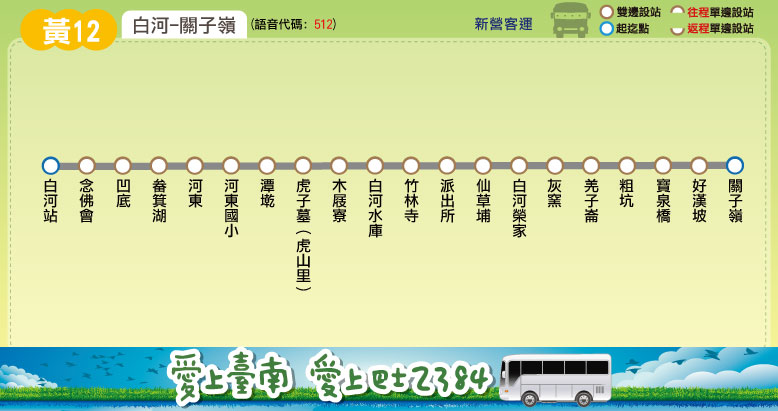
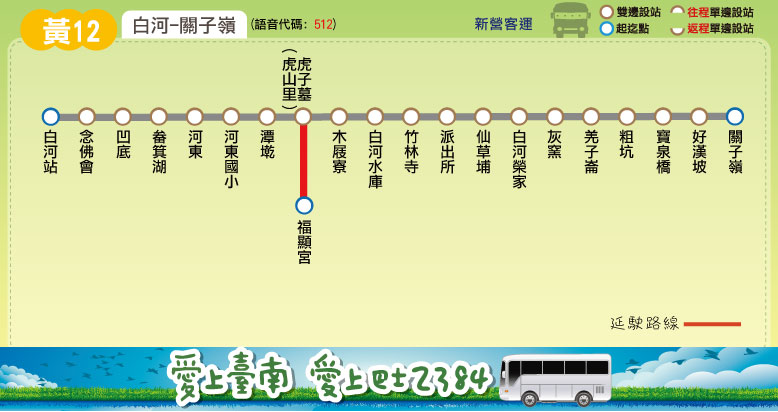
新增黃12路線時刻，拿掉台灣好行站牌後面的[台灣好行]字樣

diff --git a/yellow/yellow_12.html b/yellow/yellow_12.html
@@ -1,0 +1,175 @@
+<!DOCTYPE html PUBLIC "-//W3C//DTD XHTML 1.0 Strict//EN" "http://www.w3.org/TR/xhtml1/DTD/xhtml1-strict.dtd">
+<html xmlns="http://www.w3.org/1999/xhtml">
+<head>
+<meta http-equiv="Content-Type" content="text/html; charset=utf-8" />
+<title>大台南公車 ─ 黃12 路線資訊</title>
+<meta name="keywords" content="" />
+<meta name="description" content="" />
+<style type="text/css">
+@import url("../css/table_style.css");
+@import url("../css/default.css");
+select.get_fare{background-color: #FFD306;}
+select.get_fare option.option1
+{background-color: #FFD306;}
+select.get_fare option.option2
+{background-color: #FDFF73;}
+select.get_fare option.option3
+{background-color: yellow;}
+select.get_fare option.option4
+{background-color: #FDFF55;}
+select.get_fare option.option5
+{background-color: #D9B300;}
+select.get_fare option.option6
+{background-color: #FCFF19;}
+</style>
+<script language="javascript" src="../route/msg.js"></script>
+<script language="javascript" src="../route/fare_and_time/yellow_12.js"></script>
+<script language="javascript" src="../route/fare_and_time/show_fare_tool.js"></script>
+</head>
+<body>
+<div id="header-wrapper">
+	<div id="header" class="container">
+		<div id="logo">
+			<h1><a href="../index.html">Tainan Bus for FUN</a></h1>
+			<p align="center">
+			<a href="index.html"><img src="../img/yellow_logo.png"></a>
+			</p>
+		</div>
+		<div id="menu">
+			<ul>
+				<li class="current_page_item"><a href="#route" accesskey="1" title="">路線圖</a></li>
+				<li><a href="#info" accesskey="2" title="">路線資訊</a></li>
+				<li><a href="#fare" accesskey="3" title="">票價表</a></li>
+				<li><a href="#time" accesskey="4" title="">時刻表</a></li>
+				<li><a href="#transfer" accesskey="5" title="">轉乘資訊</a></li>
+			</ul>
+		</div>
+	</div>
+</div>
+<div id="wrapper1">
+	<a name="route"></a>
+	<div id="banner">&nbsp;</div>
+	<div id="route">
+		<div class="title">
+			<h2>大台南公車 ─ 黃12 路線圖</h2>
+			<span class="byline">Tainan Bus Yellow 12, Route Map</span>
+		</div>
+		<img src="../route/yellow/y12.jpg">
+		<p></p>
+		<!--<iframe src="https://mapsengine.google.com/map/embed?mid=zT0XIOZRtlhg.kbnckjpTnNGs" width="800" height="500"></iframe>-->
+	</div>
+</div>
+<div id="wrapper2">
+	<a name="info"></a>
+	<div id="routeinfo" class="container">
+		<div class="title">
+			<h2>大台南公車 ─ 黃12　路線資訊</h2>
+			<span class="byline">Tainan Bus Yellow 12, Route Information</span> </div>
+		<div class="content">
+			<table border="0">
+				<tr>
+					<td>起訖點</td>
+					<td>白河 － 關子嶺</td>
+				</tr>
+				<tr>
+					<td>營運公司</td>
+					<td>新營客運</td>
+				</tr>
+				<tr>
+					<td>首／末班車發車時刻</td>
+					<td>往 關子嶺：06:55／16:05<br />往 白　河：07:25／16:35</td>
+				</tr>
+				<tr>
+					<td>班距</td>
+					<td>固定班次</td>
+				</tr>
+				<tr>
+					<td>收費方式</td>
+					<td>里程計費</td>
+				</tr>
+			</table>
+			<p>　</p>
+			<a href="http://2384.tainan.gov.tw:8080/AGPSRemoteQuery3/ajaxBus.jsp?pathId=1512&locale=zh_TW" class="button">公車動態資訊</a> </div>
+	</div>
+</div>
+<div id="wrapper3">
+	<a name="fare"></a>
+	<div id="faretable" class="container">
+		<div class="title">
+			<h2>票價表</h2>
+			<span class="byline">Ticket Fare</span> </div>
+		<div class="content">
+			<script language="javascript">
+				create_select_menu(yellow_12_interval_stop, 6, 'yellow_12');
+			</script>
+			<br/>
+			<table>
+				<tr>
+					<th></th><th>全票</th><th>半票</th>
+				</tr>
+				<tr>
+					<td><b>投現</b></td>
+					<td id="cash_adult">-</td>
+					<td id="cash_half">-</td>
+				</tr>
+				<tr>
+					<td><b>電子票證</b></td>
+					<td id="RFID_adult">-</td>
+					<td id="RFID_half">-</td>
+				</tr>
+			</table>
+			<p>　</p>
+			<script language="javascript">
+				print_fare_table(yellow_12_interval_name, yellow_12_fare, '#FDFF73');
+				document.write('<p>　</p>');
+				document.write(MeteredMSG + PromotionMSG);
+			</script>
+			<p>　</p>
+		</div>
+	</div>
+</div>
+<div id="timetable">
+	<a name="time"></a>
+	<div class="title">
+		<h2>時刻表</h2>
+		<span class="byline">Bus schedule</span> </div>
+	<div class="content">
+		<script language="javascript">
+			document.write('<h2><font color="orange">白河-&gt;關子嶺</font></h2>');
+			create_time_schedule(yellow_12_main_stop_name, yellow_12_main_stop_time_consume, yellow_12_important_stop, yellow_12_time_go, false);
+			document.write('<p>　</p>');
+			document.write('<h2><font color="orange">關子嶺-&gt;白河</font></h2>');
+			create_time_schedule(yellow_12_main_stop_name, yellow_12_main_stop_time_consume, yellow_12_important_stop, yellow_12_time_return, true);
+			document.write(TimeScheduleMSG);
+		</script>
+		<h3><font color="#000055">「副」表示路線行先為12-1，行駛至<font color="red">福顯宮</font>止</font></h3>
+	</div>
+</div>
+<div id="wrapper4">
+	<a name="transfer"></a>
+	<div id="transfer" class="container">
+		<div class="title">
+			<h2>大台南公車－黃12 主要轉乘點資訊</h2>
+			<span class="byline">Tainan bus Yellow 12, Transfer information</span>
+		</div>
+		<div class="content">
+			<table>
+				<tr>
+					<th>白河</th>
+					<td style="text-align: center"><img src="../route/transfer/yellow_transfer_logo.png"></td>
+					<td id="yellow">
+					<p>
+						<a href="../yellow/yellow.html" target="_blank">黃幹線</a>、<a href="../yellow/yellow_10.html" target="_blank">黃10</a>、<a href="../yellow/yellow_11.html" target="_blank">黃11</a>、<a href="../yellow/yellow_12.html" target="_blank">黃12</a>、
+					</p>
+					<a href="../yellow/yellow_13.html" target="_blank">黃13</a>、<a href="../yellow/yellow_14.html" target="_blank">黃14</a>、<a href="../yellow/yellow_15.html" target="_blank">黃15</a></a>
+					</td>
+				</tr>
+			</table>
+		</div>
+	</div>
+</div>
+<div id="copyright">
+	<script type="text/javascript">document.write(copyrightMSG);</script>
+</div>
+</body>
+</html>

diff --git a/yellow/yellow.html b/yellow/yellow.html
@@ -155,17 +155,59 @@ select.get_fare option.option6
 		<div class="content">
 			<table>
 				<tr>
-					<th rowspan="7">新營</th>
+					<th>白河</th>
+					<td style="text-align: center"><img src="../route/transfer/yellow_transfer_logo.png"></td>
+					<td id="yellow">
+					<p>
+						<a href="../yellow/yellow.html" target="_blank">黃幹線</a>、<a href="../yellow/yellow_10.html" target="_blank">黃10</a>、<a href="../yellow/yellow_11.html" target="_blank">黃11</a>、<a href="../yellow/yellow_12.html" target="_blank">黃12</a>、
+					</p>
+					<a href="../yellow/yellow_13.html" target="_blank">黃13</a>、<a href="../yellow/yellow_14.html" target="_blank">黃14</a>、<a href="../yellow/yellow_15.html" target="_blank">黃15</a></a>
+					</td>
+				</tr>
+				<tr>
+					<th rowspan="3">新營</th>
 					<td style="text-align: center"><img src="../route/transfer/railway.png"></td>
 					<td>台鐵新營站</td>
 				</tr>
 				<tr>
 					<td style="text-align: center"><img src="../route/transfer/brown_transfer_logo.png"></td>
-					<td>棕幹線</td>
+					<td id="brown"><a href="../brown/brown.html" target="_blank">棕幹線</a>、<a href="../brown/brown_1.html" target="_blank">棕1</a>、<a href="../brown/brown_2.html" target="_blank">棕2</a>、<a href="../brown/brown_3.html" target="_blank">棕3</a></td>
 				</tr>
 				<tr>
 					<td style="text-align: center"><img src="../route/transfer/yellow_transfer_logo.png"></td>
-					<td>黃幹線</td>
+					<td id="yellow">
+					<p>
+						<a href="../yellow/yellow.html" target="_blank">黃幹線</a>、<a href="../yellow/yellow_1.html" target="_blank">黃1</a>、<a href="../yellow/yellow_2.html" target="_blank">黃2</a>、<a href="../yellow/yellow_3.html" target="_blank">黃3</a>、<a href="../yellow/yellow_4.html" target="_blank">黃4</a>、
+					</p>
+					<a href="../yellow/yellow_5.html" target="_blank">黃5</a>、<a href="../yellow/yellow_6.html" target="_blank">黃6</a>、<a href="../yellow/yellow_7.html" target="_blank">黃7</a>
+					</td>
+				</tr>
+				<tr>
+					<th>柳營火車站</th>
+					<td style="text-align: center"><img src="../route/transfer/railway.png"></td>
+					<td>台鐵柳營站</td>
+				</tr>
+				<tr>
+					<th>柳營</th>
+					<td style="text-align: center"><img src="../route/transfer/yellow_transfer_logo.png"></td>
+					<td id="yellow"><a href="../yellow/yellow.html" target="_blank">黃幹線</a>、<a href="../yellow/yellow_1.html" target="_blank">黃1</a>、<a href="../yellow/yellow_2.html" target="_blank">黃2</a>、<a href="../yellow/yellow_3.html" target="_blank">黃3</a></td>
+				</tr>
+				<tr>
+					<th rowspan="2">下營公所</th>
+					<td style="text-align: center"><img src="../route/transfer/yellow_transfer_logo.png"></td>
+					<td id="yellow"><a href="../yellow/yellow_5.html" target="_blank">黃5</a>、<a href="../yellow/yellow_20.html" target="_blank">黃20</a></td>
+				<tr>
+					<td style="text-align: center"><img src="../route/transfer/orange_transfer_logo.png"></td>
+					<td id="orange"><a href="../orange/orange_11.html" target="_blank">橘11</a></td>
+				</tr>
+				<tr>
+					<th rowspan="2">果菜市場</th>
+					<td style="text-align: center"><img src="../route/transfer/orange_transfer_logo.png"></td>
+					<td id="orange"><a href="../orange/orange.html" target="_blank">橘幹線</a>、<a href="../orange/orange_10.html" target="_blank">橘10</a>、<a href="../orange/orange_11.html" target="_blank">橘11</a>、<a href="../orange/orange_12.html" target="_blank">橘12</a></td>
+				</tr>
+				<tr>
+					<td style="text-align: center"><img src="../route/transfer/yellow_transfer_logo.png"></td>
+					<td id="yellow"><a href="../yellow/yellow.html" target="_blank">黃幹線</a>、<a href="../yellow/yellow_20.html" target="_blank">黃20</a></td>
 				</tr>
 			</table>
 		</div>

diff --git a/tools/get_time_tool.js b/tools/get_time_tool.js
@@ -79,6 +79,7 @@ function get_bus_time(theRoute, start_stop, end_stop, time, isArrive){
 	var count = 0;
 	for(var i=0; i<interval_stop_name.length; ++i){
 		for(var j=0; j<interval_stop_name[i].length; ++j, ++count){
+			//alert('replace='+replace_stop_name(interval_stop_name[i][j])+' compare='+start_stop);
 			if(replace_stop_name(interval_stop_name[i][j])==start_stop){
 				start_idx = [i,j,count]; // idx format: [interval, order in interval, index of total stops]
 			}
@@ -130,17 +131,16 @@ function get_bus_time(theRoute, start_stop, end_stop, time, isArrive){
 	 : [get_time(target_time, stop_time_consume[end_idx[2]] - stop_time_consume[start_idx[2]]), target_time, Math.abs(stop_time_consume[end_idx[2]] - stop_time_consume[start_idx[2]]), fare];
 	// such as ["06:10","10:05", 30]
 }
-var replace_str_arr = [['台南','臺南'],['台灣','臺灣'],['南台','南臺'],['台電','臺電'],['關廟站','關廟'],['、','']];
+var replace_str_arr = [['[台灣好行]',''],['台南','臺南'],['台灣','臺灣'],['南台','南臺'],['台電','臺電'],['關廟站','關廟'],['興南客運臺南站','臺南站'],['、','']];
 function replace_stop_name(stop){ // handle the exception
 	for(var i=0; i<replace_str_arr.length; ++i){
 		if(stop.indexOf(replace_str_arr[i][0]) >=0 ){
-			//document.write('i='+i+' ,name='+replace_str_arr[i][0]);
+			//document.write('i='+i+' ,name='+replace_str_arr[i][0]+'<br />');
 			stop = stop.replace(replace_str_arr[i][0],replace_str_arr[i][1]);
-			break;
 		}
 	}
 	if(stop=='火車站(北站)' || stop=='火車站(南站)') stop = '臺南火車站';
-	if((stop.indexOf('新營客運')==0 || stop.indexOf('興南客運')==0)&&stop.charAt(stop.length-1)=='站') stop = stop.substring(4,stop.length-1); // replace XX站 to XX
+	else if((stop.indexOf('新營客運')==0 || stop.indexOf('興南客運')==0)&&stop.charAt(stop.length-1)=='站') stop = stop.substring(4,stop.length-1); // replace XX站 to XX
 	return stop;
 }
 

diff --git a/route/fare_and_time/yellow_12.js b/route/fare_and_time/yellow_12.js
@@ -1,0 +1,27 @@
+yellow_12_interval_name = ["白河","河東","虎子墓","木屐寮","仙草埔","關子嶺"];
+yellow_12_interval_stop = [
+["白河","念佛會","凹底"], // 白河
+["畚箕湖","河東","河東國小","潭墘"], // 河東
+["虎子墓(虎山里)","福顯宮"], // 虎子墓
+["木屐寮","白河水庫"], // 木屐寮
+["竹林寺","派出所","仙草埔","白河榮家","灰窯","羌子崙","粗坑"], // 仙草埔
+["寶泉橋","好漢坡","關子嶺"] // 關子嶺
+];
+yellow_12_stop_time_consume = [0,2,4,4,5,5,6,7,10,10,11,12,12,13,14,14,15,17,18,19,20];
+yellow_12_fare = [
+[26],
+[26,26],
+[26,26,26],
+[26,26,26,26],
+[26,26,26,26,26],
+[36,28,26,26,26,26]
+];
+// format = [time at the start stop] or
+// [time, other] or
+// [time, start_stop, end_stop, other]
+yellow_12_main_stop_name = ["白河","河東國小","福顯宮","仙草埔","關子嶺"];
+yellow_12_main_stop_time_consume = [0, 5, 10, 13, 20];
+yellow_12_important_stop = [0, 2, 4]; // 白河, 福顯宮, 關子嶺
+var skip_stop = 2; // 福顯宮
+yellow_12_time_go = [["6:20",0,skip_stop,['副']],["06:55",[skip_stop]],["08:05",[skip_stop]],["09:05",[skip_stop]],["10:05",[skip_stop]],["10:40",0,skip_stop,['副']],["12:05",[skip_stop]],["13:05",[skip_stop]],["15:05",[skip_stop]],["16:05",[skip_stop]],["17:30",0,skip_stop,['副']]];
+yellow_12_time_return = [["6:30",skip_stop,0,['副']],["07:25",[skip_stop]],["08:35",[skip_stop]],["09:35",[skip_stop]],["10:35",[skip_stop]],["10:50",skip_stop,0,['副']],["12:35",[skip_stop]],["13:35",[skip_stop]],["15:35",[skip_stop]],["16:35",[skip_stop]],["17:40",skip_stop,0,['副']]];
